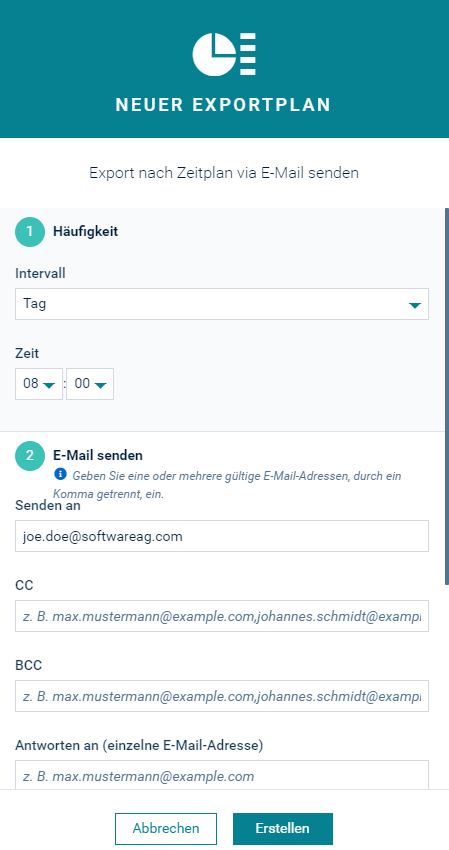
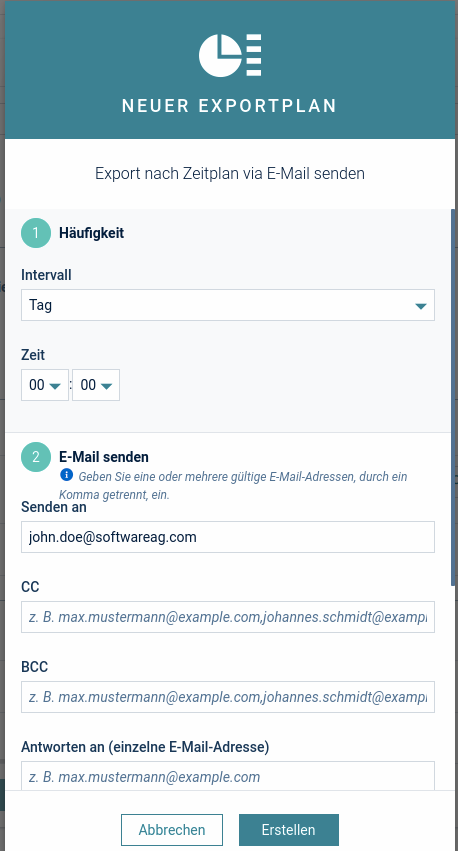
MTM-53256 * updated screenshots * removed not existing screenshots from documentation text

Changed region(s): [[0.0, 0.0, 1.0, 1.0], [0.2494, 0.9482, 0.7483, 1.0]]

diff --git a/content/benutzerhandbuch/cockpit-de-bundle/exports.md b/content/benutzerhandbuch/cockpit-de-bundle/exports.md
@@ -65,8 +65,6 @@ Neben dem Filtern nach bestimmten Objekten oder Zeiträumen können Daten nach b
 
 Aktivieren bzw. deaktivieren Sie diese Felder mit dem Umschalter.
 
-![Filter fields](/images/benutzerhandbuch/cockpit/cockpit-export-fields.png)
-
 {{< c8y-admon-info >}}
 Der Zeitintervall-Filter gilt nur für Alarme, Ereignisse und Messwerte, nicht jedoch für Objekte. Wenn ausgewählt, erscheinen Objekte im Export, unabhängig von einem ggf. festgelegten Zeitintervall.
 {{< /c8y-admon-info >}}
@@ -82,8 +80,6 @@ Dokumente, bei denen keinerlei Werte für die ausgewählten Felder definiert sin
 Klicken Sie auf **Hinzufügen**, um ein leeres Feld hinzuzufügen. Klicken Sie auf **Spalte** oder **Pfad**, um eine Spalte und einen Pfad einzugeben. Wenn Sie beispielsweise das Feld **Alarme** aktivieren, können Sie etwa "Schweregrad" als Spalte und "severity" als Pfad eingeben, um Daten zu Alarm-Schweregraden zu erhalten.
 
 Klicken Sie auf **Vordefiniertes Attribut hinzufügen**, um ein vordefiniertes Attribut hinzuzufügen. Markieren Sie die gewünschten Attribute in der angezeigten Liste und klicken Sie auf **Auswählen**. Verwenden Sie das Suchfeld, um die Liste nach bestimmten Eigenschaften zu filtern.
-
-![Select properties](/images/benutzerhandbuch/cockpit/cockpit-export-properties.png)
 
 Wenn Sie mindestens ein Feld haben, dass als eigenes Attribut definiert wurde und nicht aus der Liste der vordefinierten Attribute stammt, dann muss für ein Objekt mindestens dieses Attribut gesetzt sein, damit die entsprechenden Werte im Export erscheinen.
 
@@ -102,8 +98,6 @@ Aus Datenpunkten hinzugefügte JsonPath-Ausdrücke werden in Klammerschreibweise
 #### So planen Sie einen Export
 
 Um einen Export in eine CSV- oder XLSX-Datei für einen bestimmten Zeitpunkt zu planen, öffnen Sie den entsprechenden Export und klicken Sie auf **Zeitplan hinzufügen**.
-
-![Export details](/images/benutzerhandbuch/cockpit/cockpit-export-add-schedule.png)
 
 Geben Sie im nächsten Dialog die folgenden Informationen ein, um den geplanten Export per E-Mail zu erhalten.
 
@@ -138,15 +132,11 @@ Klicken Sie auf **Erstellen**, um den neuen Exportplan zu erstellen.
 
 Der Exportplan wird zu den Exportdetails hinzugefügt.
 
-![Scheduled exports list](/images/benutzerhandbuch/cockpit/cockpit-export-schedule-list.png)
-
 ##### Migration geplanter Exports
 
 In der Version 10.6.2 wurde ein neuer Report Agent implementiert, um geplante Berichte in [Apama Streaming Analytics](/apama/overview-analytics/) zuzulassen. Die Exportplan-Funktionalität auf Grundlage von Smart Rules wurde eingestellt.
 
 Beim Öffnen eines Berichts werden alle auf Smart Rules basierenden geplanten Exports automatisch zu dem neuen Report Agent migriert und der Benutzer wird per Nachricht über den Vorgang informiert.
-
-![Export schedule migration message2](/images/benutzerhandbuch/cockpit/cockpit-export-migrate2.png)
 
 {{< c8y-admon-important title="Wichtig">}}
 Sie müssen jeden einzelnen Bericht manuell öffnen, um die im Bericht enthaltenen Exportpläne zu migrieren.

diff --git a/content/users-guide/cockpit-bundle/exports.md b/content/users-guide/cockpit-bundle/exports.md
@@ -71,10 +71,8 @@ Apart from object- and time-specific filtering you may filter data for specific 
 
 Use the toggle to enable/disable a field.
 
-![Filter fields](/images/users-guide/cockpit/cockpit-export-fields.png)
-
 {{< c8y-admon-info >}}
-The time range filter only applies to alarms, events and measurements but not to managed objects. If selected, managed objects will appear in the export, regardless of any specified time range.
+The time range filter available on the only applies to alarms, events and measurements but not to managed objects. If selected, managed objects will appear in the export, regardless of any specified time range.
 {{< /c8y-admon-info >}}
 
 When a field is enabled, predefined or empty properties can be added.
